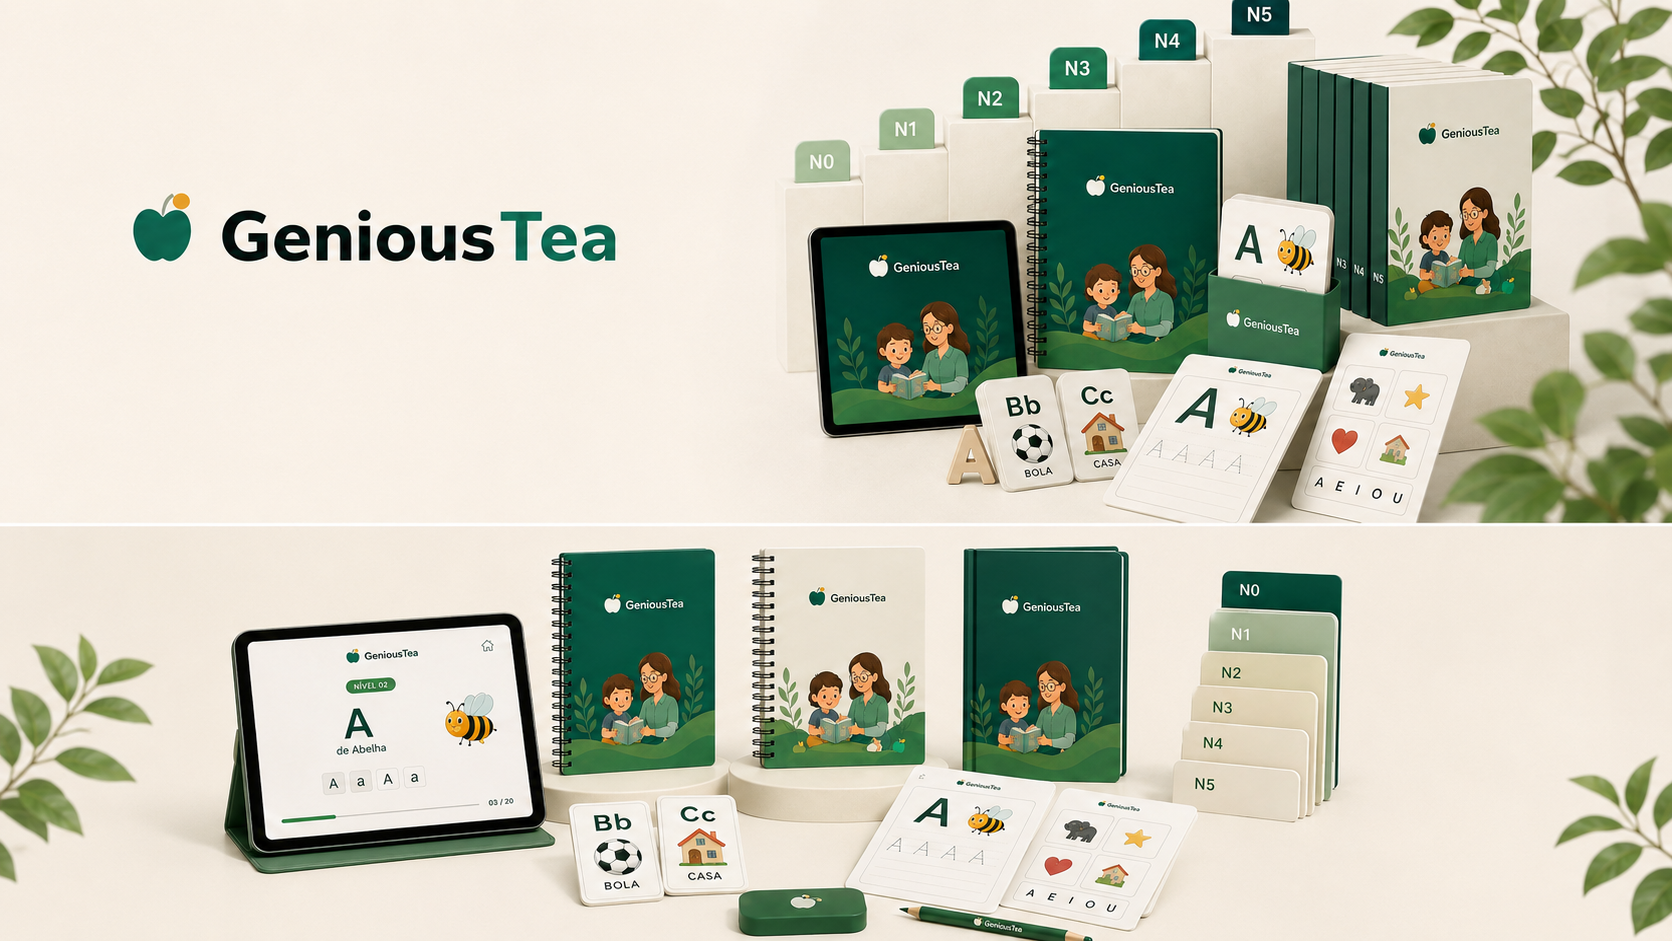
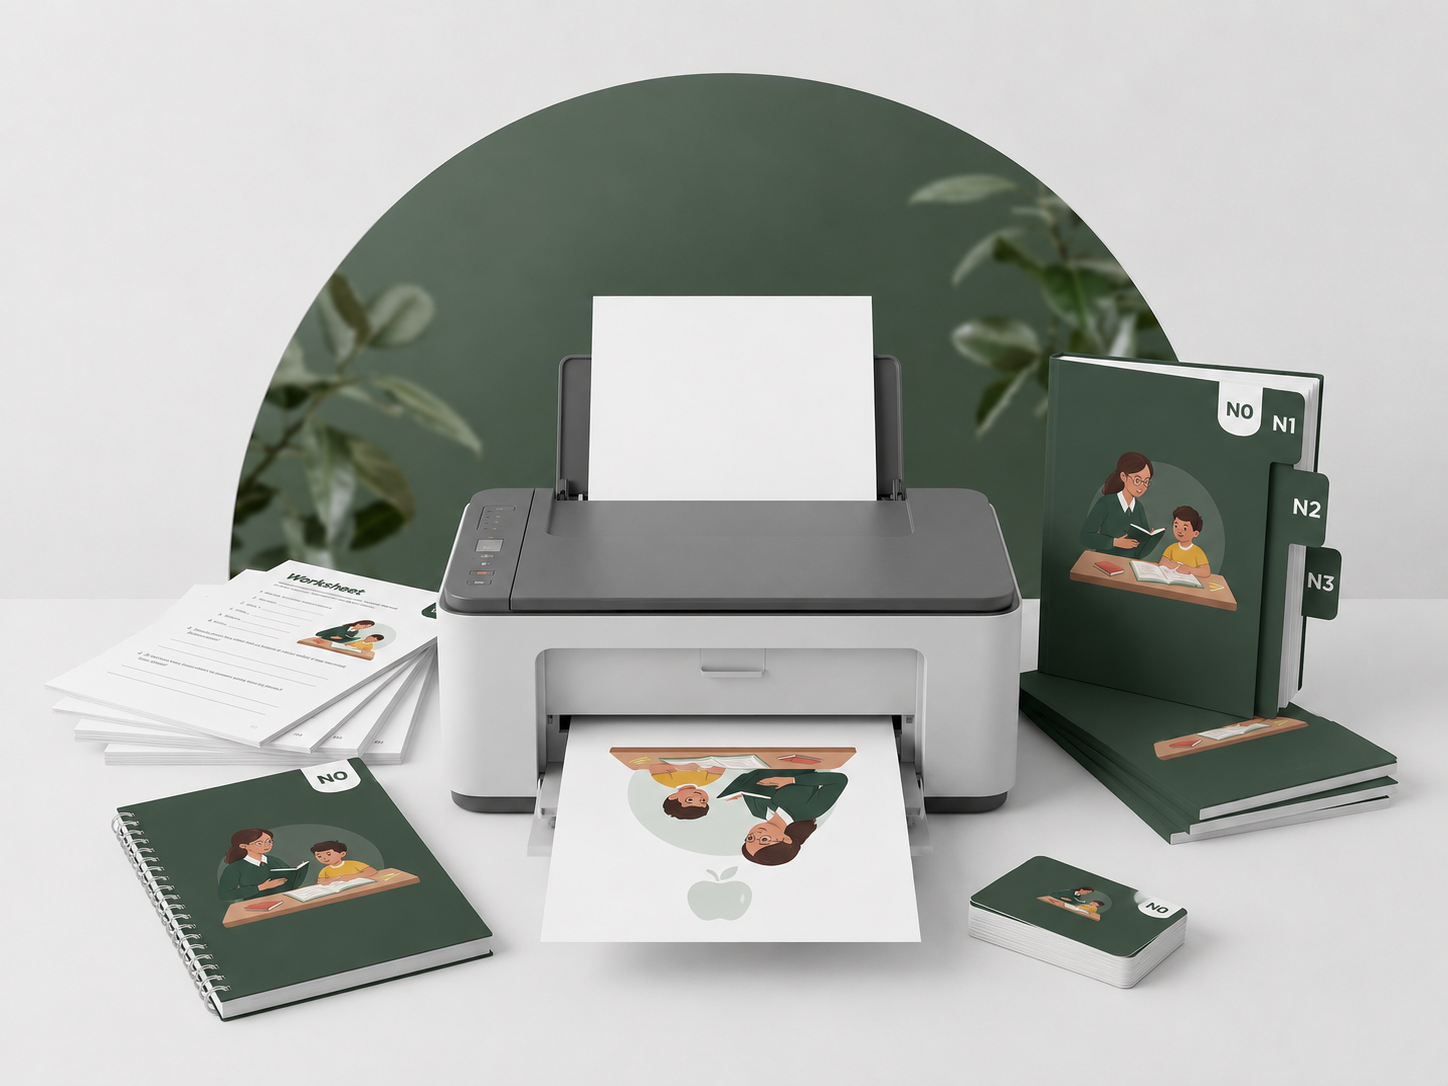
LP: substitui imagem do hero (mesma em pc e mobile)

diff --git a/lp/index.html b/lp/index.html
@@ -414,10 +414,8 @@ body{background:#F5F4EC}
 
 /* imagem de mockups abaixo do selo */
 .hero-mock{display:block;margin-top:22px;border-radius:14px;overflow:hidden;border:1px solid rgba(255,255,255,.18);box-shadow:0 20px 50px rgba(0,0,0,.3);max-width:560px}
-.hero-mock.mob{border:none;box-shadow:none;background:transparent}
-.hero-mock.pc{display:none}
 .hero-mock img{width:100%;height:auto;display:block}
-@media (min-width:860px){.hero-mock.pc{display:block;max-width:none}.hero-mock.mob{display:none}}
+@media (min-width:860px){.hero-mock{max-width:none}}
 </style>
 </head>
 <body>
@@ -441,8 +439,7 @@ body{background:#F5F4EC}
       <a class="btn lg" href="#oferta">Acessar conteúdo</a>
     </div>
     <div class="neuro"><span class="ni"><svg viewBox="0 0 24 24" fill="none" stroke="#2E7D5B" stroke-width="1.8" stroke-linecap="round" stroke-linejoin="round" width="22" height="22"><path d="M9.5 3.5A2.5 2.5 0 0 0 7 6a2.5 2.5 0 0 0-1.5 4.3A2.6 2.6 0 0 0 6 15a2.5 2.5 0 0 0 3.5 2.3"/><path d="M9.5 3.5A2 2 0 0 1 12 5.4v13.1a2 2 0 0 1-3.5 1.3"/><path d="M14.5 3.5A2.5 2.5 0 0 1 17 6a2.5 2.5 0 0 1 1.5 4.3A2.6 2.6 0 0 1 18 15a2.5 2.5 0 0 1-3.5 2.3"/><path d="M14.5 3.5A2 2 0 0 0 12 5.4"/></svg></span><span><b>+1.000 atividades</b> que estimulam a neuroplasticidade da criança com TEA</span></div>
-    <a href="#oferta" class="hero-mock pc"><img src="/lp/mockups.jpg" alt="Material GeniousTea: apostilas, tablet, flashcards e níveis N0 a N5"></a>
-    <a href="#oferta" class="hero-mock mob"><img src="/lp/mockup-mobile.png" alt="Impressora e materiais GeniousTea por níveis"></a>
+    <a href="#oferta" class="hero-mock"><img src="/lp/mockups.jpg" alt="Material GeniousTea: apostilas, tablet, flashcards e níveis N0 a N5"></a>
   </div>
 
   <div class="demo">